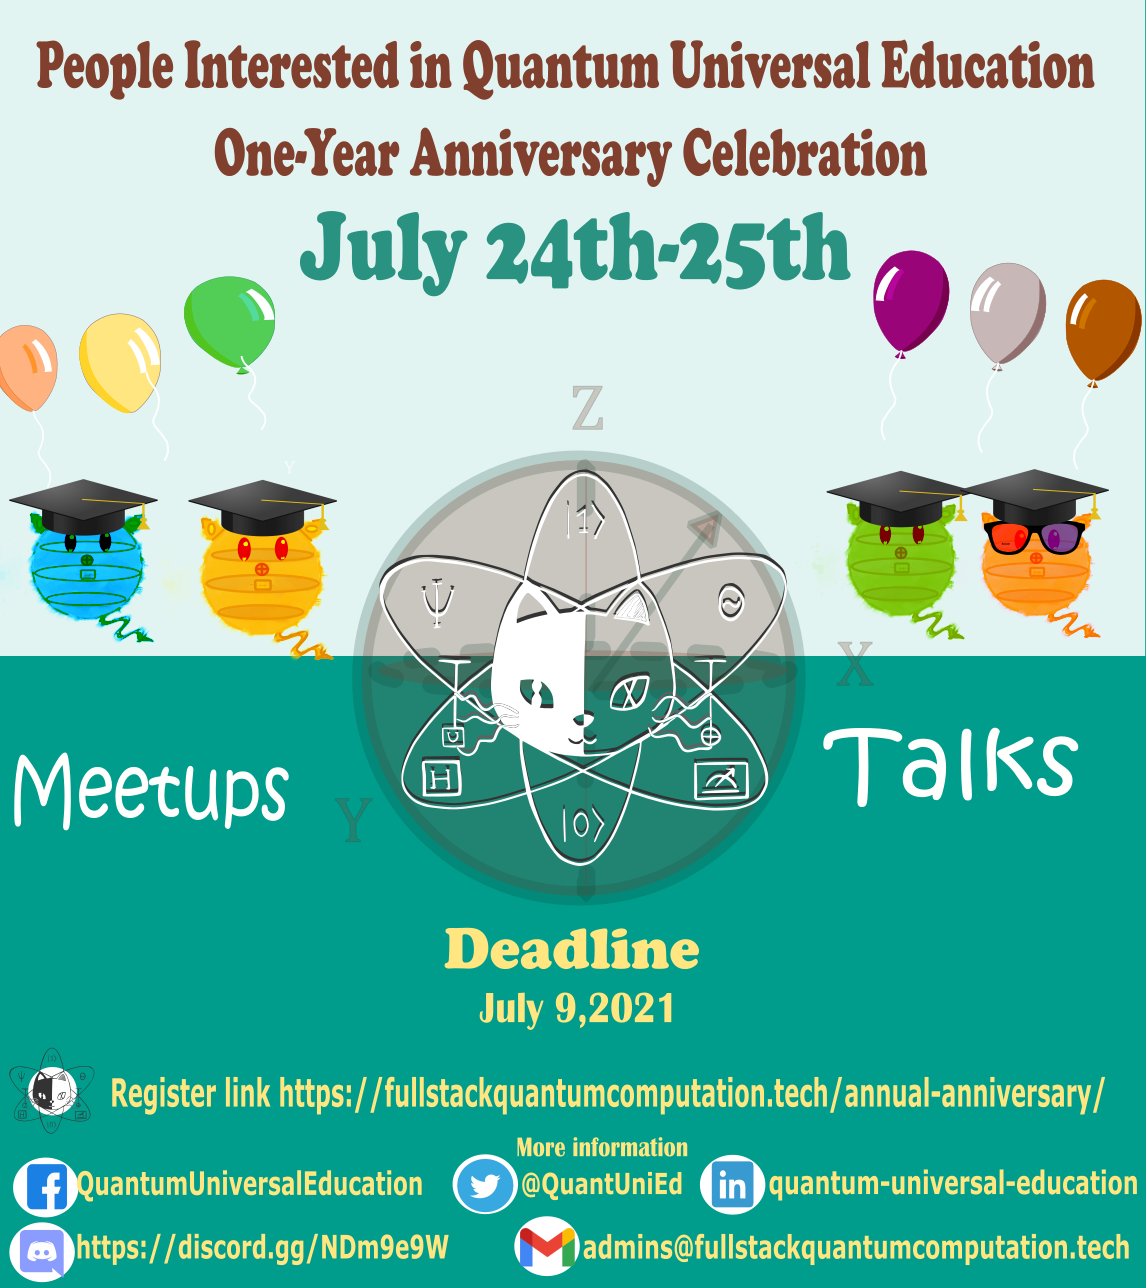
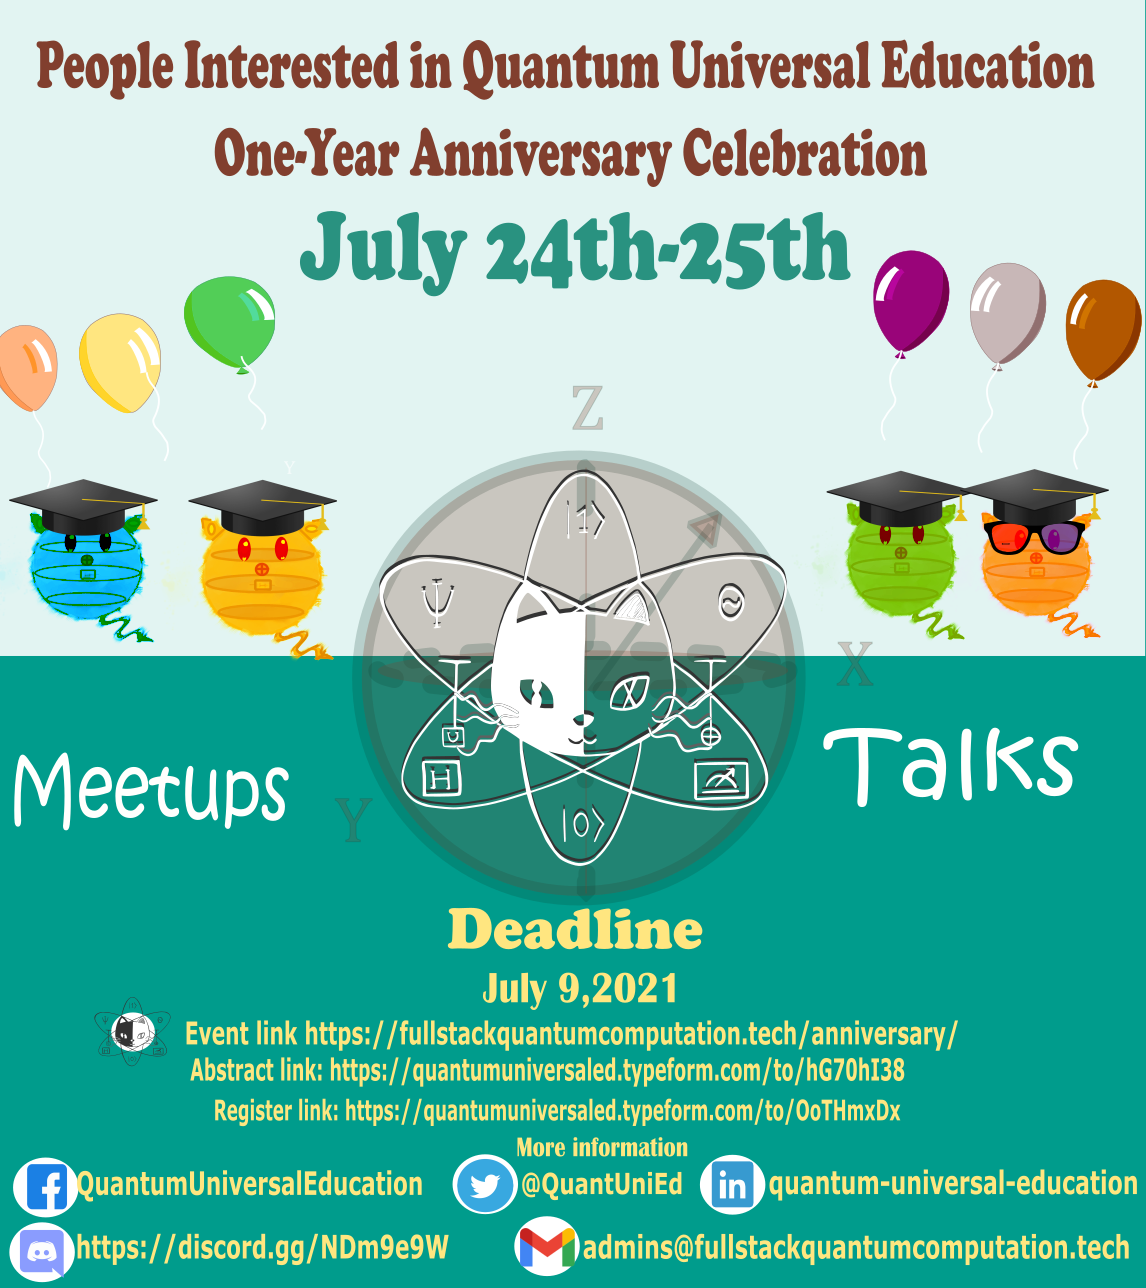
anniversary pg updated flyer, links, timeline

Changed region(s): [[0.0, 0.6832, 0.9773, 0.8696]]

diff --git a/anniversary.md b/anniversary.md
@@ -245,7 +245,7 @@ body {
 <div class="w3-container w3-padding-32" id="projects" style="width: 55vw;">
     <h2 class="w3-border-bottom w3-border-light-grey w3-padding-16">Anniversary</h2>
     <!--h4>This event is to celebrate our first anniversary in sharing the knowledge of quantum computing and for our community to share ideas, thoughts and their knowledge throughout this year.</h4-->
-	<h4>This event is to celebrate our first anniversary in sharing the knowledge of quantum computing for our community.Time to celebrate and listen to everyone's quantum computing progress!</h4>
+	<h4>This event is to celebrate our first anniversary in sharing the knowledge of quantum computing for our community. Time to celebrate and listen to everyone's quantum computing progress!</h4>
 	</div>
 <div style="width: 55vw">
 	    <!--h4>Time to celebrate and listen to everyone's quantum computing progress.</h4-->
@@ -253,8 +253,9 @@ body {
 </div>
 </header>
 <div class="w3-container w3-padding-32" style="width: 40vw" >		
-<h2 style="color:#A70024">Registration is now open</h2>
-<button class="button qurator"  onclick="document.location='https://quantumuniversaled.typeform.com/to/hG70hI38'">Register</button>
+<h2 style="color:#A70024">Registration is now open!  Free to attend</h2>
+<button class="button qurator"  onclick="document.location='https://quantumuniversaled.typeform.com/to/hG70hI38'">Sign up to give a talk</button>
+<button class="button qurator"  onclick="document.location='https://quantumuniversaled.typeform.com/to/OoTHmxDx'">Register for the event</button>
 
 	
 </div>	
@@ -263,23 +264,24 @@ body {
 <h4></h4>
 </div>	
 <div class="w3-container w3-padding-32" id="projects" style="width: 55vw;">
-    <h2 class="w3-border-bottom w3-border-light-grey w3-padding-16">TimeLine</h2>	
+    <h2 class="w3-border-bottom w3-border-light-grey w3-padding-16">Timeline</h2>	
 <div class="timeline">
   <div class="container left">
     <div class="content">
-    <h2 style="color:#FFFFFF">Open enrollment</h2>
-<p style="color:#FFFFFF">June 14th, 2021</p>
+    <h2 style="color:#FFFFFF">Live & Recorded Workshop: How to Write an Abstract</h2>
+    <h3 style="color:#FFFFFF">Discord server #abstract-workshop stage channel</h3>
+<p style="color:#FFFFFF">4pm UTC, June 27th, 2021</p>
   </div>
   </div>
   <div class="container right">
     <div class="content">
-    <h2 style="color:#FFFFFF">Close enrollment</h2>
+    <h2 style="color:#FFFFFF">Talk abstract deadline</h2>
 	  <p style="color:#FFFFFF">July 9th, 2021</p>
   </div>
   </div>
   <div class="container left">
     <div class="content">  
-    <h2 style="color:#FFFFFF">Abstracts deadline</h2>
+    <h2 style="color:#FFFFFF">Event registration deadline</h2>
 	  <p style="color:#FFFFFF">July 16th, 2021</p>
   </div>
   </div>
